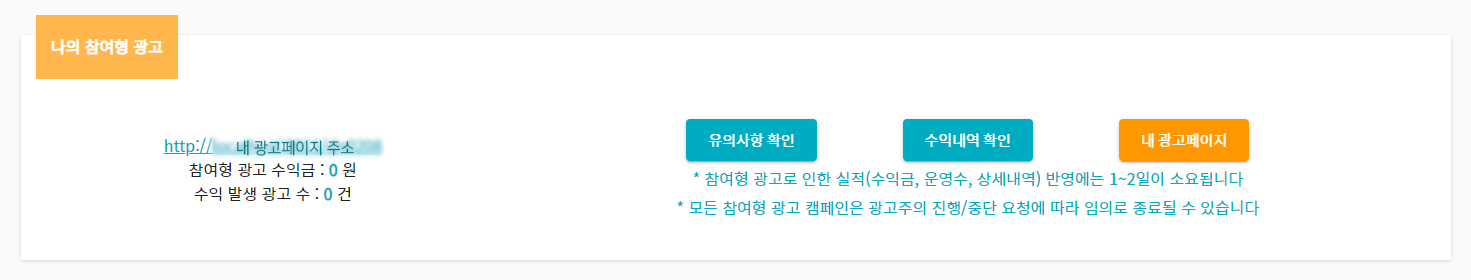
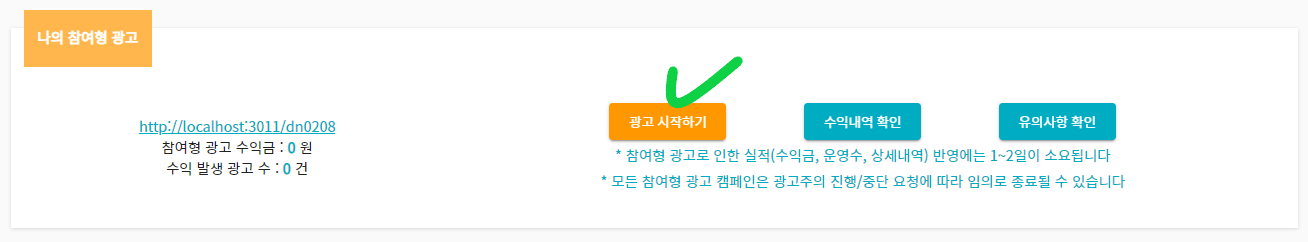
[UPDATE #7.3] 안드로이드 alert 추가 및 이용안내 추가

diff --git a/adpage-ts/src/organisms/Campaigns/CPACampaignList.jsx b/adpage-ts/src/organisms/Campaigns/CPACampaignList.jsx
@@ -50,7 +50,7 @@ const useStyles = makeStyles(theme => ({
 
 }));
 
-export default function CPACampaigns({ campaigns, isDesktopWidth, name }) {
+export default function CPACampaigns({ campaigns, isDesktopWidth, isAndroid }) {
   const theme = useTheme();
   const classes = useStyles();
   // 상세보기 open state
@@ -62,6 +62,7 @@ export default function CPACampaigns({ campaigns, isDesktopWidth, name }) {
       setOpenIdx(num);
     }
   }
+
 
   // Rendering Campaign types
   function renderType(typeNum) {
@@ -137,7 +138,10 @@ export default function CPACampaigns({ campaigns, isDesktopWidth, name }) {
                   color="primary"
                   onClick={() => {
                     // 우리 클릭 트래킹 추가.
-                    //  안드로이드 일때,
+                    //  안드로이드 && (앱설치 + 회원가입)일때, 
+                    if(isAndroid && (item.apType === '1'  || item.apType === '3')){
+                      alert('안드로이드는 PC 또는 모바일 웹 브라우저에서 참여가 가능합니다.');
+                    }
                     axios.post(`${apiHOST}/adpage/banner/click`, { campaignId: item.campaignId, creatorId: item.creatorId });
                     window.location.href = item.apTrackingLink;
                   }}

diff --git a/client-ts/src/organisms/mypage/creator/Manual/sources.ts b/client-ts/src/organisms/mypage/creator/Manual/sources.ts
@@ -246,7 +246,7 @@ const manualSources: ManualSources = {
       {
         image: '/pngs/dashboard/manual/new_creator/creator-adpage-02.png',
         description: `${textStyling.LinkText('<내 참여형광고>', 'cpa-dashboard')}에서 지금까지의 참여형 광고 수익금과 진행한 광고 수를 확인할 수 있습니다. 
-        각 버튼을 통해 참여형 광고의 유의사항, 참여형 광고 내역, 내 광고페이지를 확인할 수 있습니다.`
+        ${textStyling.styledText('광고시작하기')} 버튼을 클릭해 지금 바로 광고를 시작해보세요!`
       },
       {
         image: '/pngs/dashboard/manual/new_creator/creator-adpage-03.png',

diff --git a/adpage-ts/src/organisms/Landing/LandingImages.jsx b/adpage-ts/src/organisms/Landing/LandingImages.jsx
@@ -96,7 +96,7 @@ const useTabValue = () => {
 };
 
 export default function LandingImages(props) {
-  const { campaignData, isDesktopWidth, name } = props;
+  const { campaignData, isDesktopWidth, name, isAndroid } = props;
   const classes = useStyles();
   const { value, handleTabChange } = useTabValue();
   return (
@@ -118,7 +118,7 @@ export default function LandingImages(props) {
       
 
       {/* Image section */}
-      <CPACampaigns campaigns={campaignData.data} isDesktopWidth={isDesktopWidth} name={name}/>
+      <CPACampaigns campaigns={campaignData.data} isDesktopWidth={isDesktopWidth} name={name} isAndroid={isAndroid}/>
     </Grid>
   );
 }

diff --git a/adpage-ts/src/organisms/LandingMain.jsx b/adpage-ts/src/organisms/LandingMain.jsx
@@ -251,7 +251,7 @@ const LandingMain = (props) => {
      
         {campaignData.loading && (<LandingImagesLoading isDesktopWidth={isDesktopWidth} />)}
         {!campaignData.loading && campaignData.data && (
-          <LandingImages campaignData = {campaignData}  isDesktopWidth={isDesktopWidth} name={match.params.name} />
+          <LandingImages campaignData = {campaignData} isAndroid={Number(getScreen() === '1' && getOsIndex() ==='3')} isDesktopWidth={isDesktopWidth} name={match.params.name} />
         )}
         {!campaignData.loading && campaignData.data  && campaignData.data.length === 0 && (<LandingNoAd />)}
       </Grid>
